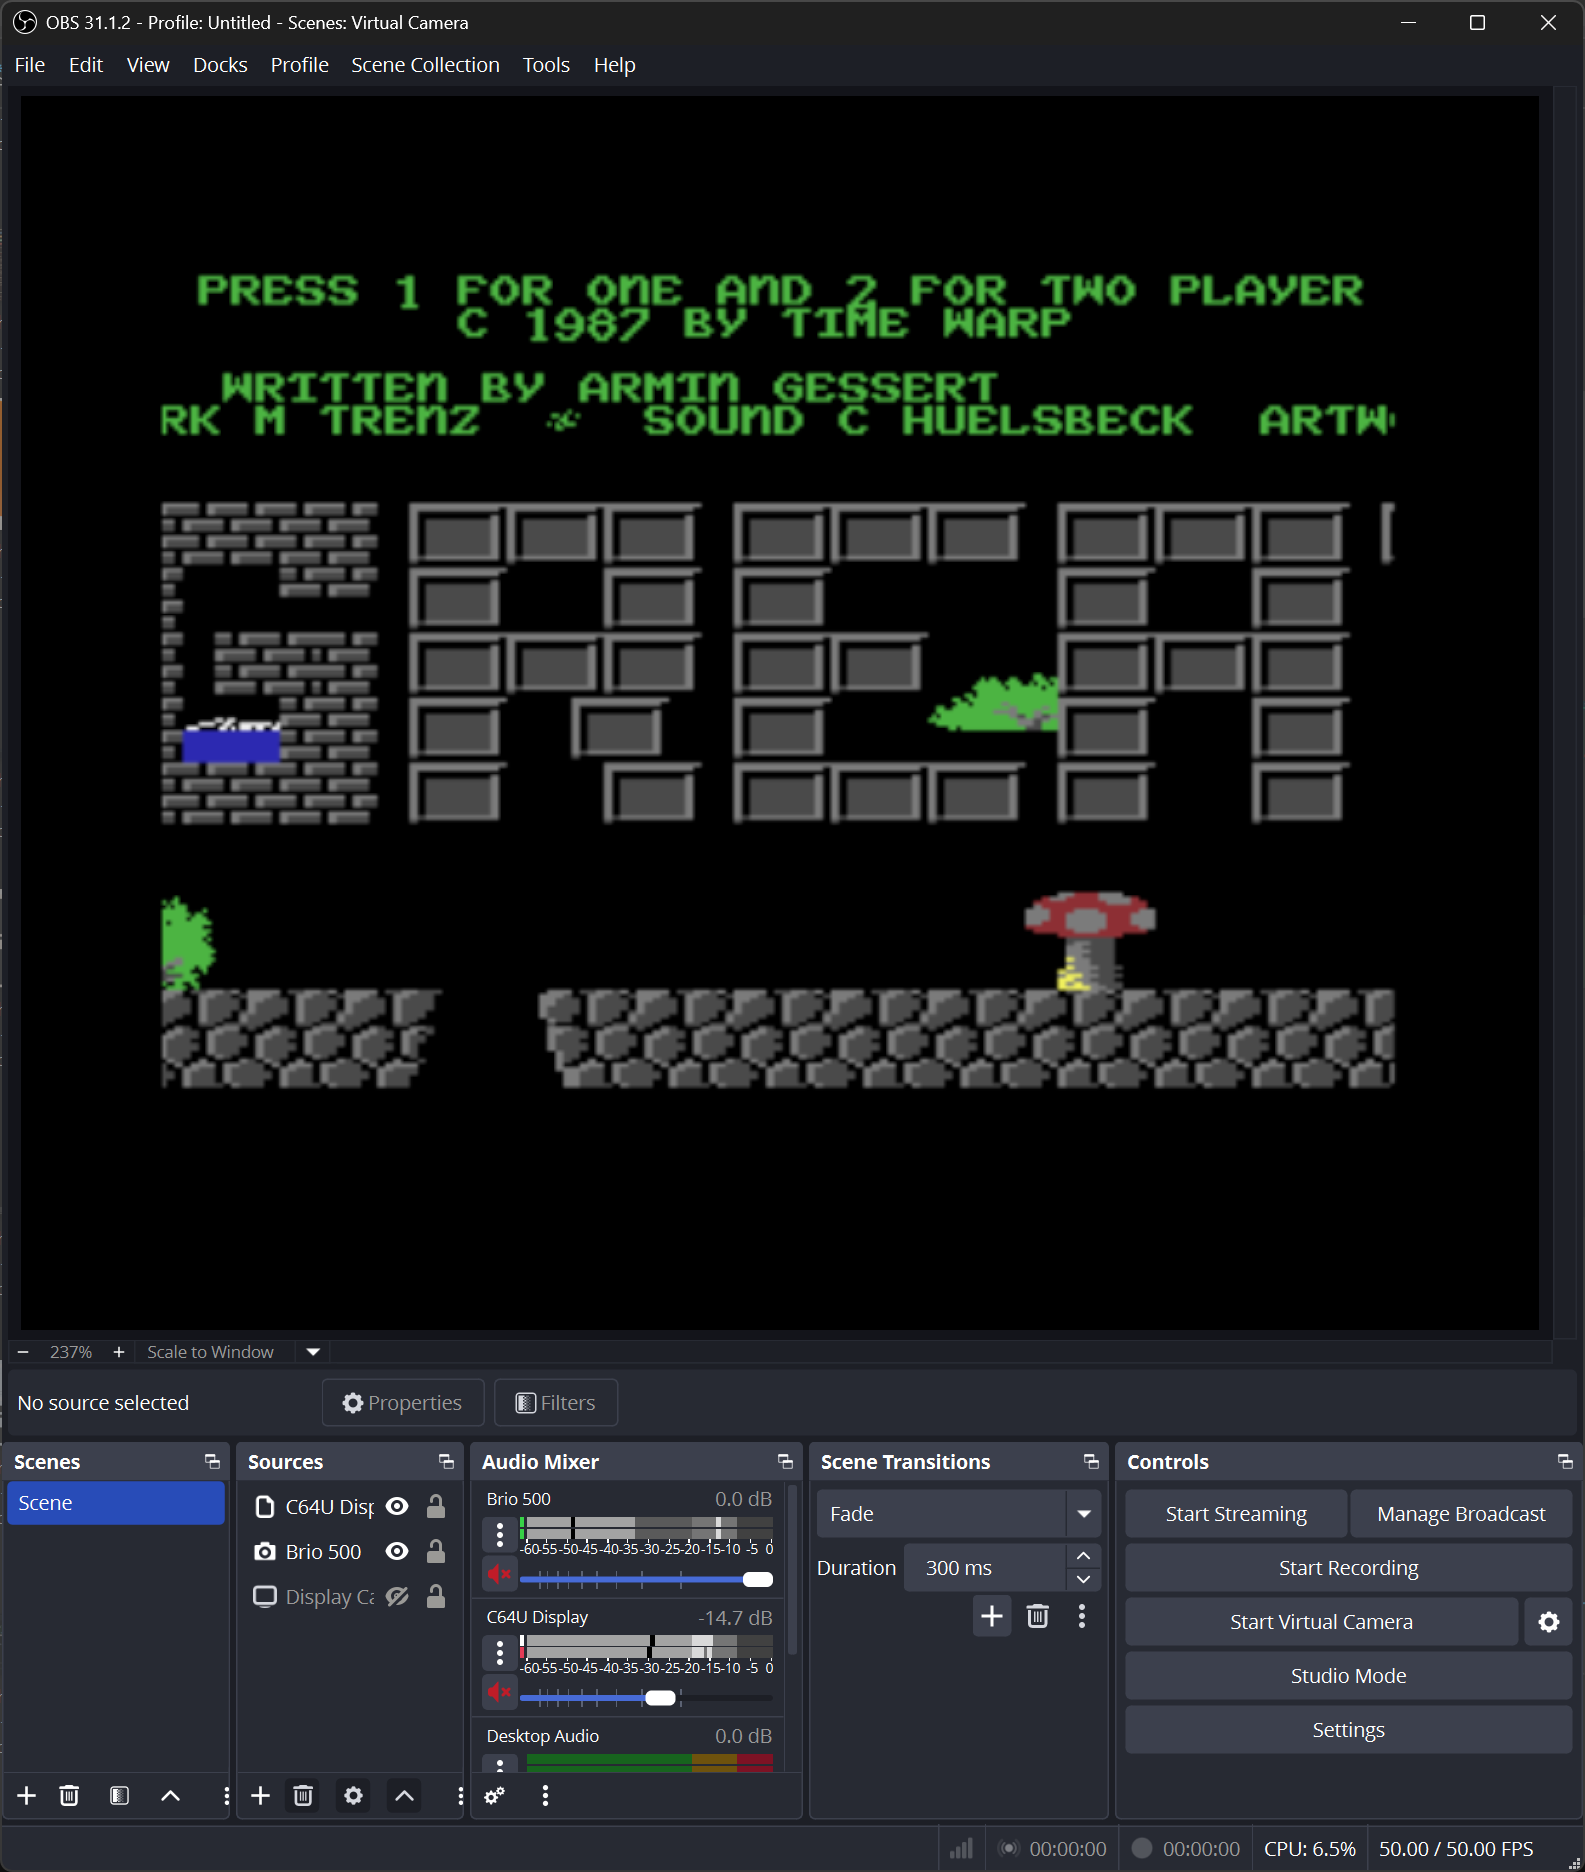
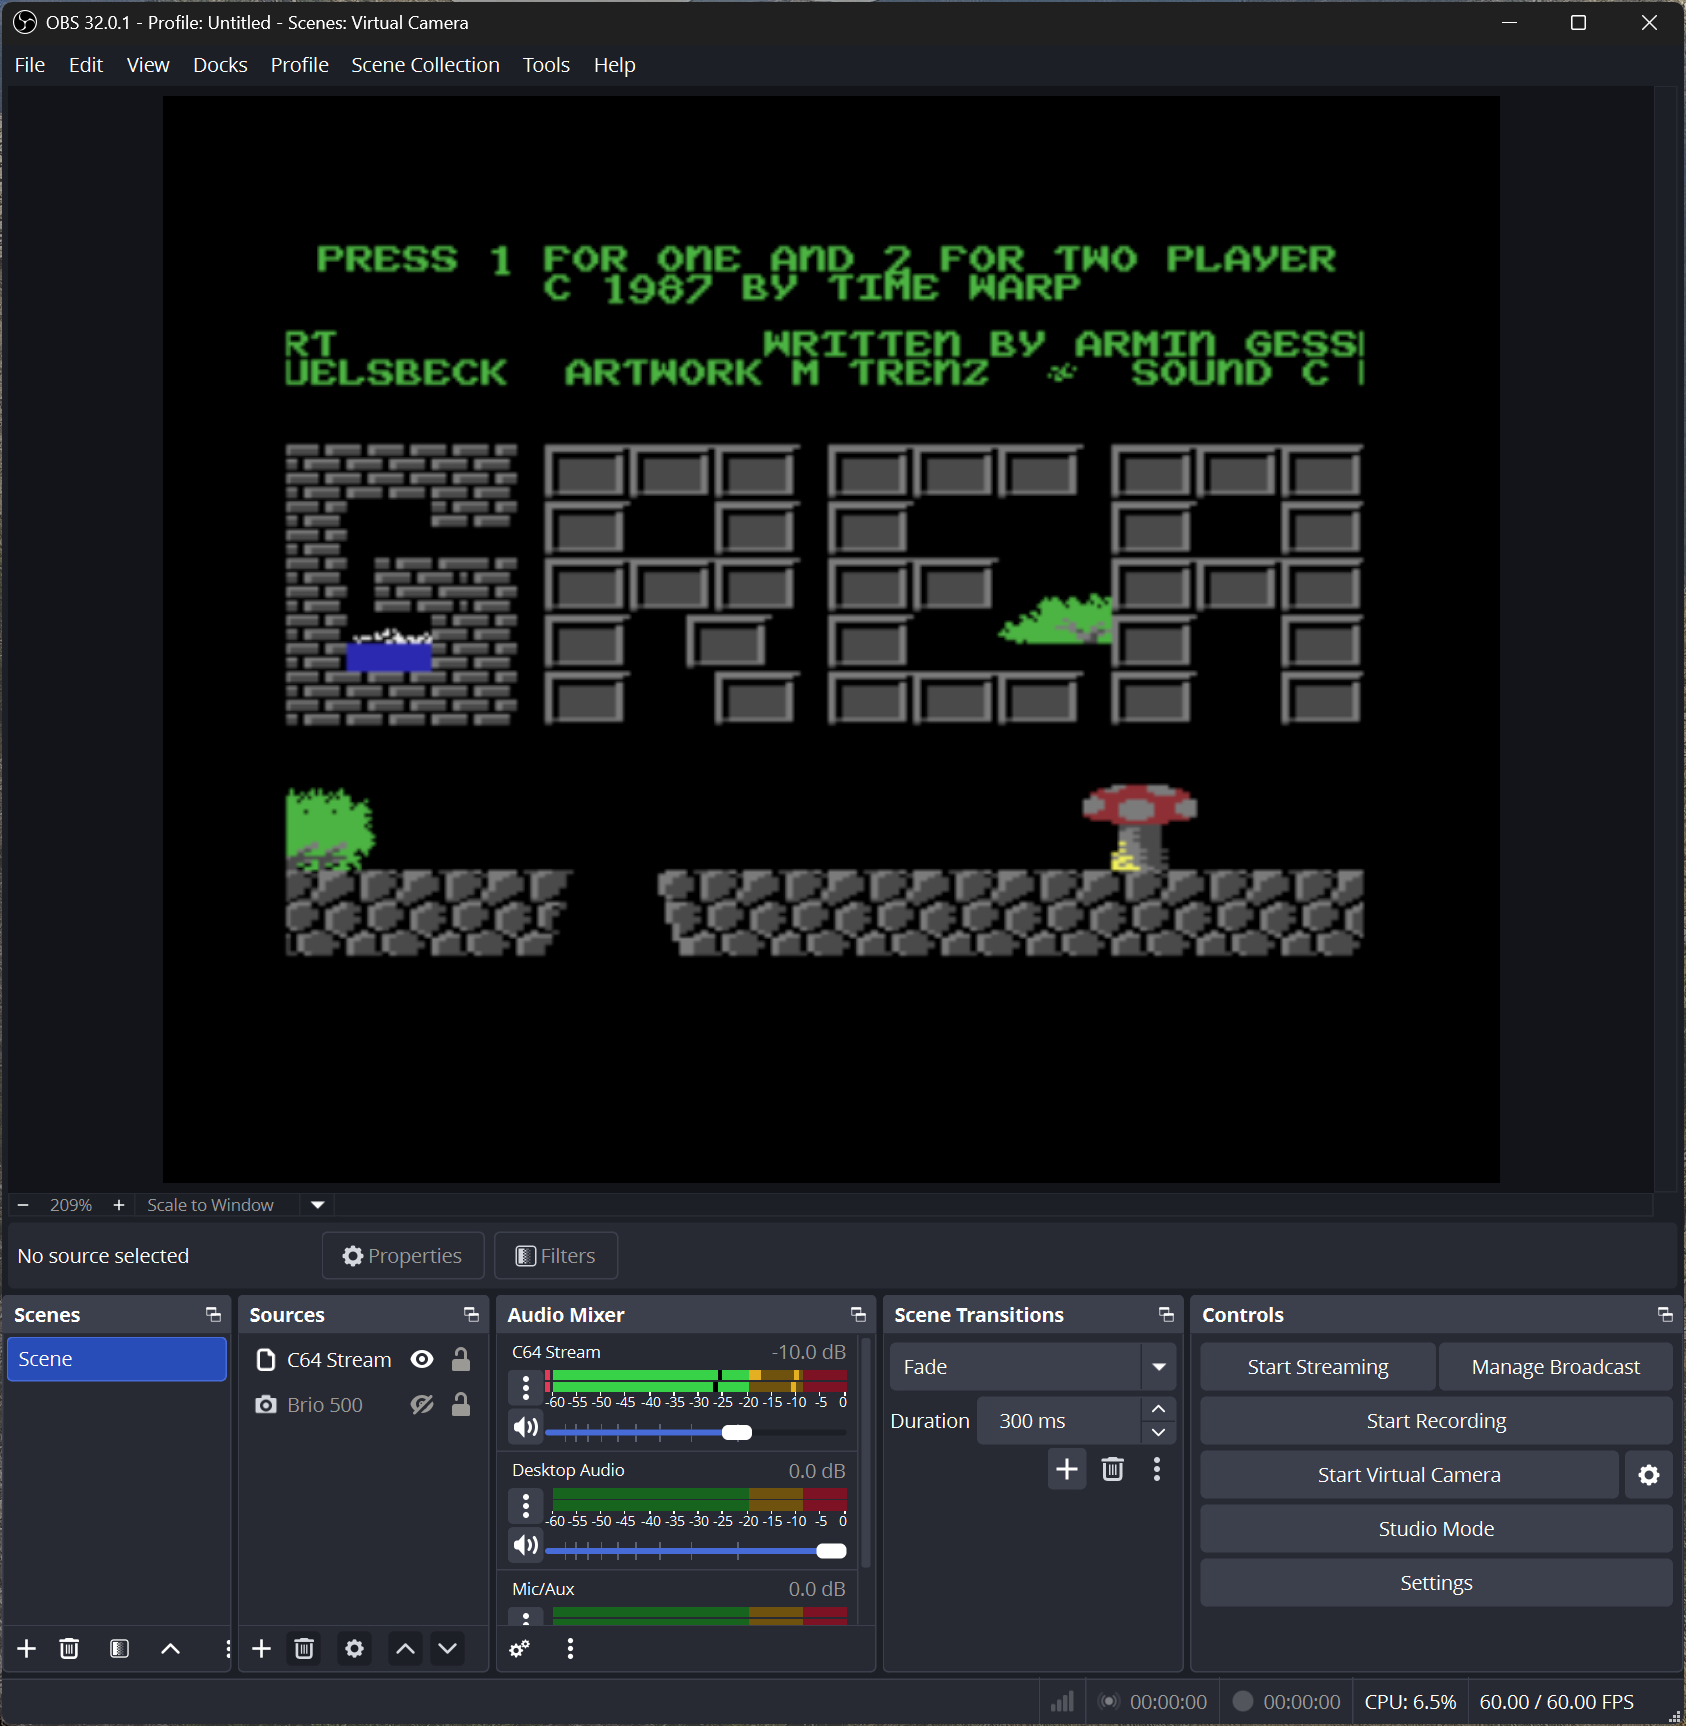
Updated docs and screenshots

diff --git a/README.md b/README.md
@@ -67,13 +67,22 @@ See the [OBS Plugins Guide](https://obsproject.com/kb/plugins-guide).
 
 ### Configuration ⚙
 
-![C64 Stream Configuration](./docs/images/properties.png "C64 Stream Configuration")
-
 **Getting Your C64 on Stream:**
 
-1. **Add Source:** In OBS, create a new source and select "C64 Stream" from the available types
+1. **Add Source:** In OBS, click the "+" icon in the Sources tab. A window of all sources appears. Select "C64 Source":
+
+   <img src="./docs/images/select-plugin.png" alt="Select Plugin" title="Select C64 Stream Plugin" width="250"/>
+
+A new window opens. Keep the default settings and click "OK":
+
+   <img src="./docs/images/create-source.png" alt="Create Source" title="Create C64 Stream Source" width="250"/>
+
 2. **Open Properties:** Select the "C64 Stream" source in your sources list, then click the "Properties" button to open the configuration dialog
+
+![C64 Stream Configuration](./docs/images/properties.png "C64 Stream Configuration")
+
 3. **Debug Logging:** Enable detailed logging for debugging connection issues (optional)
+
 4. **Configure Network Settings:**
    - **DNS Server IP:** IP address of DNS server for resolving device hostnames (default: `192.168.1.1` for most home routers). Used when the C64 Ultimate Host is a hostname rather than an IP address.
    - **C64 Ultimate Host:** Enter your Ultimate device's hostname (default: `c64u`) or IP address to enable automatic streaming control from OBS (recommended for convenience), or set to `0.0.0.0` to accept streams from any C64 Ultimate on your network (requires manual control from the device)
